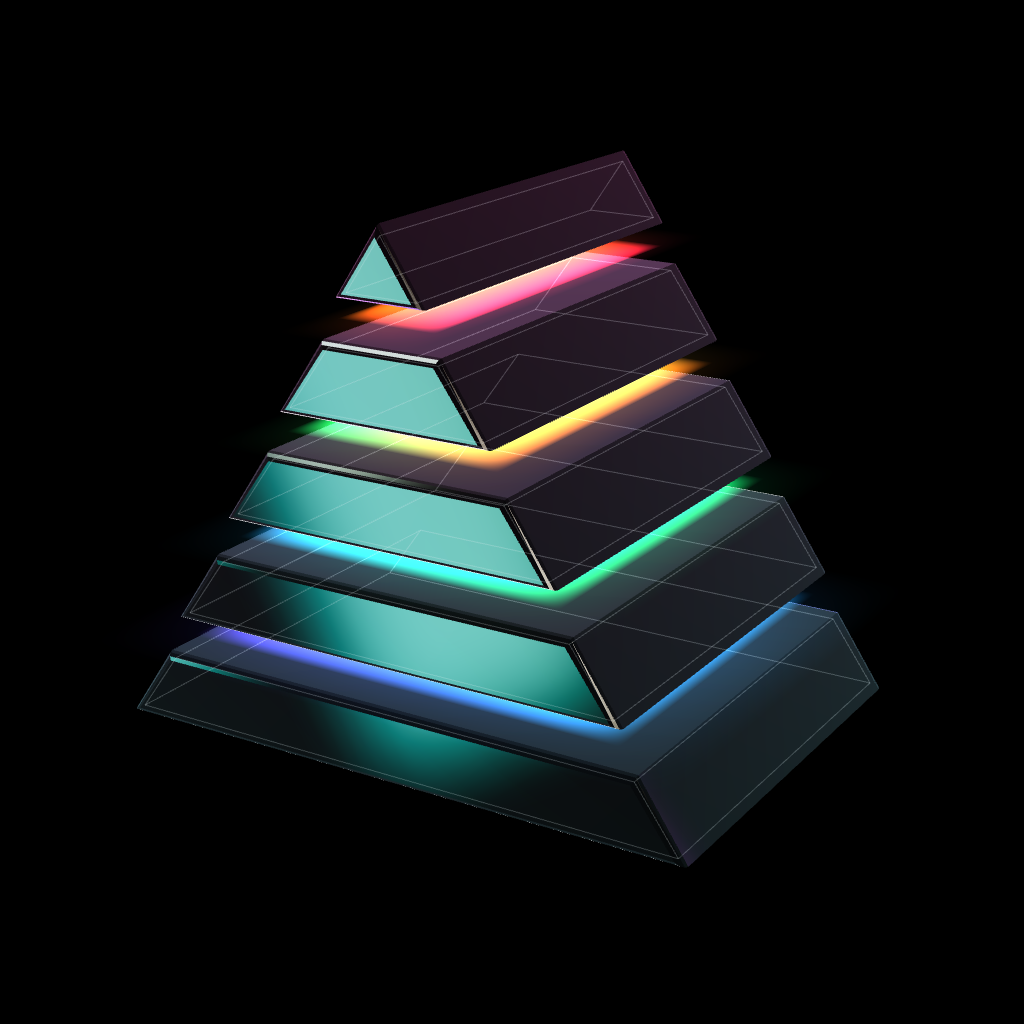
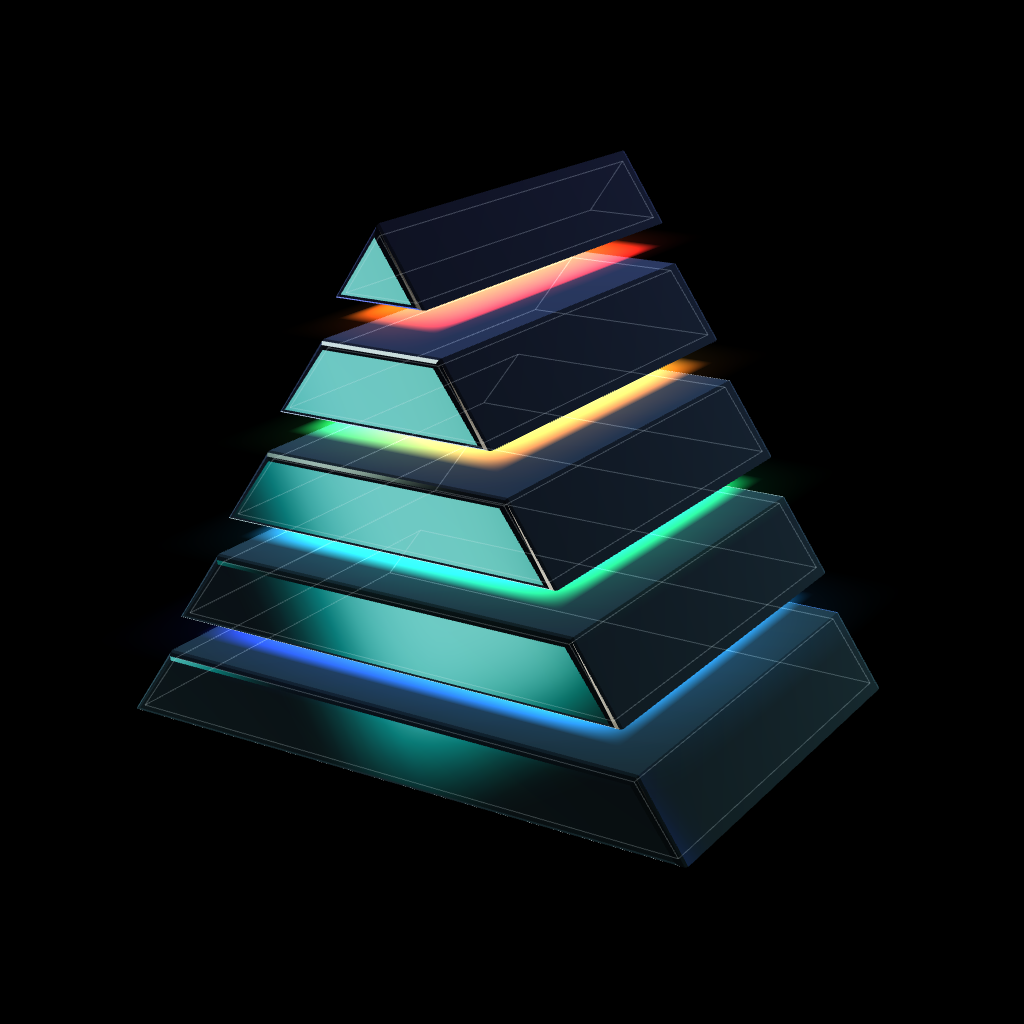
D Dark: indigo palette in place of purple and pink
Ice cyan, indigo and soft indigo-white for accents and gradient text;
indigo smoke; spectrum ends in indigo; logo re-rendered to match.

Claude-Session: https://claude.ai/code/session_01XkNtyxpTfPE5Ki13ucxey4

diff --git a/drafts/prism-d-dark.html b/drafts/prism-d-dark.html
@@ -8,9 +8,9 @@
 <style>
 :root{
   --bg:#05060a;--bg2:#080a10;--panel:#090c13;--ink:#eef1f7;--mut:#959cad;--dim:#636a7c;--line:rgba(255,255,255,.08);--line2:rgba(255,255,255,.16);
-  --acc:#7df9ff;--acc2:#9b7bff;--acc3:#ff7ad9;
-  --grad:linear-gradient(100deg,#7df9ff 0%,#9b7bff 55%,#ff7ad9 100%);
-  --r:#ff5c8a;--o:#ffb04a;--y:#e8e05a;--g:#4dffb0;--b:#5ad1ff;--v:#9b7bff;
+  --acc:#74e8ff;--acc2:#5b6cff;--acc3:#a5b4ff;
+  --grad:linear-gradient(100deg,#74e8ff 0%,#5b6cff 55%,#a5b4ff 100%);
+  --r:#ff5f5f;--o:#ffb04a;--y:#e8e05a;--g:#4dffb0;--b:#5ad1ff;--v:#5b6cff;
   --disp:"Geist",system-ui,-apple-system,"Segoe UI",sans-serif;
   --sans:"Geist",system-ui,-apple-system,"Segoe UI",sans-serif;
   --serif:"Instrument Serif",Georgia,"Times New Roman",serif;
@@ -48,11 +48,11 @@ a{color:inherit}
 /* ---------- smoky light behind the whole page; the same canvas draws the hero prism ---------- */
 #gl{position:fixed;inset:0;width:100%;height:100%;z-index:-1;pointer-events:none;display:block;opacity:0;transition:opacity 1.4s ease}
 #gl.on{opacity:1}
-.fluid-fb{position:fixed;inset:-20%;z-index:-1;pointer-events:none;filter:blur(40px);background:radial-gradient(35% 30% at 70% 35%,rgba(90,209,255,.2),transparent 70%),radial-gradient(30% 28% at 30% 70%,rgba(255,92,138,.14),transparent 70%),radial-gradient(28% 26% at 60% 80%,rgba(155,123,255,.2),transparent 70%),radial-gradient(25% 22% at 85% 65%,rgba(77,255,176,.1),transparent 70%);animation:fdrift 26s ease-in-out infinite alternate}
+.fluid-fb{position:fixed;inset:-20%;z-index:-1;pointer-events:none;filter:blur(40px);background:radial-gradient(35% 30% at 70% 35%,rgba(90,209,255,.2),transparent 70%),radial-gradient(30% 28% at 30% 70%,rgba(255,95,95,.14),transparent 70%),radial-gradient(28% 26% at 60% 80%,rgba(91,108,255,.2),transparent 70%),radial-gradient(25% 22% at 85% 65%,rgba(77,255,176,.1),transparent 70%);animation:fdrift 26s ease-in-out infinite alternate}
 @keyframes fdrift{0%{transform:translate(0,0) rotate(0) scale(1)}50%{transform:translate(-4%,3%) rotate(8deg) scale(1.08)}100%{transform:translate(3%,-3%) rotate(-6deg) scale(1)}}
 
 /* ---------- ambient light: faint top glow, grid revealed around the cursor ---------- */
-.bgfx{position:fixed;inset:0;z-index:-1;pointer-events:none;background:radial-gradient(80% 50% at 50% -12%,rgba(155,123,255,.11),transparent 62%)}
+.bgfx{position:fixed;inset:0;z-index:-1;pointer-events:none;background:radial-gradient(80% 50% at 50% -12%,rgba(91,108,255,.11),transparent 62%)}
 .bgfx::before{content:"";position:absolute;inset:0;background-image:linear-gradient(rgba(255,255,255,.07) 1px,transparent 1px),linear-gradient(90deg,rgba(255,255,255,.07) 1px,transparent 1px);background-size:72px 72px;background-position:center;-webkit-mask:radial-gradient(380px circle at var(--mx,50%) var(--my,28%),#000,transparent 72%);mask:radial-gradient(380px circle at var(--mx,50%) var(--my,28%),#000,transparent 72%)}
 .bgfx::after{content:"";position:absolute;inset:0;background:radial-gradient(640px circle at var(--mx,50%) var(--my,28%),rgba(125,249,255,.055),transparent 62%)}
 
@@ -63,7 +63,7 @@ a{color:inherit}
 .logo .mark3d{width:46px;height:46px;margin:-8px -4px -8px -12px}
 /* the 3D logo: rendered live; its brightness becomes alpha, so only the light shows on the bar */
 .mark3d{position:relative;display:inline-block;flex:none}
[2 lines of base64/hex data omitted]
 .mark3d.live::before{opacity:0}
 .mark3d canvas{position:absolute;inset:0;width:100%;height:100%;display:block;opacity:0;transition:opacity .6s ease}
 .mark3d canvas.on{opacity:1}
@@ -74,7 +74,7 @@ a{color:inherit}
 .pill nav a:hover{opacity:1;color:var(--acc)}
 .talk{display:flex;align-items:center;gap:10px;text-decoration:none;background:var(--ink);color:var(--bg);border-radius:999px;padding:5px 16px 5px 5px;font-size:14px;font-weight:500;white-space:nowrap;min-height:40px;transition:box-shadow .3s}
 .talk:hover{box-shadow:0 0 30px -4px rgba(125,249,255,.6)}
-.av{width:32px;height:32px;border-radius:50%;display:grid;place-items:center;font:400 15px/1 var(--serif);font-style:italic;background:linear-gradient(135deg,#7df9ff,#9b7bff 55%,#ff7ad9);color:#05060a;flex:none}
+.av{width:32px;height:32px;border-radius:50%;display:grid;place-items:center;font:400 15px/1 var(--serif);font-style:italic;background:linear-gradient(135deg,#74e8ff,#5b6cff 55%,#a5b4ff);color:#05060a;flex:none}
 @media (max-width:820px){.pill nav{display:none}.pill{gap:12px}}
 @media (max-width:380px){.talk .tl{display:none}.talk{padding-right:5px}}
 
@@ -137,7 +137,7 @@ html:not(.js) .strata canvas,.rm .strata canvas{display:none}
 html:not(.js) .h-text,.rm .h-text{position:relative;min-height:100svh}
 html:not(.js) .h-over,.rm .h-over{display:none}
 html:not(.js) .mani-band,.rm .mani-band{display:block}
-html:not(.js) .chip,.rm .chip{background:#05060a repeating-linear-gradient(180deg,transparent 0 14px,#7df9ff 14px 15px,transparent 15px 22px,#9b7bff 22px 23px)}
+html:not(.js) .chip,.rm .chip{background:#05060a repeating-linear-gradient(180deg,transparent 0 14px,#74e8ff 14px 15px,transparent 15px 22px,#5b6cff 22px 23px)}
 
 /* ---------- sections ---------- */
 .sec{padding:clamp(96px,12vw,180px) 0}
@@ -153,7 +153,7 @@ html:not(.js) .chip,.rm .chip{background:#05060a repeating-linear-gradient(180de
 .js [data-r].in{opacity:1;transform:none}
 
 /* animated light running round a card's edge */
-.glowb{border:1px solid transparent!important;background:var(--pb,linear-gradient(var(--panel),var(--panel))) padding-box,conic-gradient(from var(--a),rgba(255,255,255,.1) 0deg,rgba(255,255,255,.1) 240deg,#7df9ff 285deg,#9b7bff 315deg,#ff7ad9 338deg,rgba(255,255,255,.1) 360deg) border-box;animation:spin 8s linear infinite}
+.glowb{border:1px solid transparent!important;background:var(--pb,linear-gradient(var(--panel),var(--panel))) padding-box,conic-gradient(from var(--a),rgba(255,255,255,.1) 0deg,rgba(255,255,255,.1) 240deg,#74e8ff 285deg,#5b6cff 315deg,#a5b4ff 338deg,rgba(255,255,255,.1) 360deg) border-box;animation:spin 8s linear infinite}
 @keyframes spin{to{--a:360deg}}
 
 /* ---------- 01 start here: a working first read ---------- */
@@ -248,7 +248,7 @@ html:not(.js) .chip,.rm .chip{background:#05060a repeating-linear-gradient(180de
 .rq{border-top:1px solid var(--line)}
 .rq-row{display:grid;grid-template-columns:minmax(0,1fr) 60px minmax(0,1.15fr);gap:20px;align-items:center;padding:clamp(28px,3.4vw,48px) 0;border-bottom:1px solid var(--line)}
 .rq-heard{position:relative;font:300 clamp(22px,2.2vw,34px)/1.2 var(--disp);letter-spacing:-.03em;color:var(--dim);justify-self:start}
-.rq-heard svg{position:absolute;left:-2%;top:30%;width:104%;height:50%;overflow:visible;filter:drop-shadow(0 0 5px rgba(255,92,138,.8))}
+.rq-heard svg{position:absolute;left:-2%;top:30%;width:104%;height:50%;overflow:visible;filter:drop-shadow(0 0 5px rgba(255,95,95,.8))}
 .rq-heard path{fill:none;stroke:var(--r);stroke-width:2.2;stroke-linecap:round;stroke-dasharray:1;stroke-dashoffset:1;transition:stroke-dashoffset .9s var(--ease) .3s}
 .rq-row.in .rq-heard path{stroke-dashoffset:0}
 .rq-ar{font:300 30px/1 var(--disp);color:var(--dim);text-align:center}
@@ -260,8 +260,8 @@ html:not(.js) .chip,.rm .chip{background:#05060a repeating-linear-gradient(180de
 @media (max-width:800px){.rq-row,.rq-labels{grid-template-columns:1fr}.rq-ar{text-align:left;transform:rotate(90deg);width:30px}.rq-labels span:nth-child(2){display:none}.rq-ask .note{position:static;display:block;margin-bottom:10px}}
 
 /* ---------- 05 how we use AI ---------- */
-.ai{background:radial-gradient(60% 55% at 50% 0%,rgba(155,123,255,.2),transparent 70%),radial-gradient(40% 40% at 90% 15%,rgba(125,249,255,.1),transparent 70%),rgba(7,8,13,.6);color:var(--ink);position:relative;overflow:hidden;border-top:1px solid var(--line);border-bottom:1px solid var(--line)}
-.ai::before{content:"";position:absolute;left:0;right:0;top:0;height:2px;background:linear-gradient(90deg,var(--r),var(--o),var(--y),var(--g),var(--b),var(--v));box-shadow:0 0 30px 2px rgba(155,123,255,.6)}
+.ai{background:radial-gradient(60% 55% at 50% 0%,rgba(91,108,255,.2),transparent 70%),radial-gradient(40% 40% at 90% 15%,rgba(125,249,255,.1),transparent 70%),rgba(7,8,13,.6);color:var(--ink);position:relative;overflow:hidden;border-top:1px solid var(--line);border-bottom:1px solid var(--line)}
+.ai::before{content:"";position:absolute;left:0;right:0;top:0;height:2px;background:linear-gradient(90deg,var(--r),var(--o),var(--y),var(--g),var(--b),var(--v));box-shadow:0 0 30px 2px rgba(91,108,255,.6)}
 .ai::after{content:"";position:absolute;inset:2px 0 auto;height:320px;background:repeating-linear-gradient(180deg,rgba(255,255,255,.035) 0 1px,transparent 1px 26px);pointer-events:none;-webkit-mask:linear-gradient(#000,transparent);mask:linear-gradient(#000,transparent)}
 .ai .w{position:relative;z-index:1}
 .pr{display:grid;grid-template-columns:repeat(2,minmax(0,1fr));border-top:1px solid var(--line)}
@@ -279,7 +279,7 @@ html:not(.js) .chip,.rm .chip{background:#05060a repeating-linear-gradient(180de
 .portrait span{font:400 clamp(100px,12vw,190px)/1 var(--serif);font-style:italic;letter-spacing:-.02em;padding-right:.08em}
 .portrait::before{content:"";position:absolute;left:0;right:0;top:-30%;height:30%;background:linear-gradient(transparent,rgba(125,249,255,.09),transparent);animation:scan 5.5s linear infinite;pointer-events:none}
 @keyframes scan{to{transform:translateY(433%)}}
-.portrait::after{content:"";position:absolute;left:0;right:0;bottom:0;height:3px;background:linear-gradient(90deg,var(--r),var(--o),var(--y),var(--g),var(--b),var(--v));box-shadow:0 0 24px 2px rgba(155,123,255,.7)}
+.portrait::after{content:"";position:absolute;left:0;right:0;bottom:0;height:3px;background:linear-gradient(90deg,var(--r),var(--o),var(--y),var(--g),var(--b),var(--v));box-shadow:0 0 24px 2px rgba(91,108,255,.7)}
 .fd blockquote{margin:0 0 30px;font:400 clamp(28px,3.2vw,52px)/1.14 var(--disp);letter-spacing:-.04em;text-indent:-.4em}
 .fd .bio p{color:var(--mut);margin:0 0 1em;max-width:36em}
 .nums{display:grid;grid-template-columns:repeat(3,minmax(0,1fr));border-top:1px solid var(--line2);margin-top:34px}
@@ -322,7 +322,7 @@ form .btn{justify-self:start;margin-top:18px}
 
 /* ---------- footer: the wordmark lights up under the cursor ---------- */
 footer{padding:0 0 calc(30px + env(safe-area-inset-bottom,0px));overflow:hidden}
-.ghostmark{font:600 clamp(58px,14vw,250px)/.9 var(--disp);letter-spacing:-.065em;color:transparent;-webkit-text-fill-color:transparent;-webkit-text-stroke:1px rgba(255,255,255,.14);background:radial-gradient(360px circle at var(--gx,50%) var(--gy,50%),rgba(125,249,255,.6),rgba(155,123,255,.28) 42%,transparent 72%);-webkit-background-clip:text;background-clip:text;white-space:nowrap;text-align:center;margin:20px 0 34px;padding:0 .04em .06em;user-select:none}
+.ghostmark{font:600 clamp(58px,14vw,250px)/.9 var(--disp);letter-spacing:-.065em;color:transparent;-webkit-text-fill-color:transparent;-webkit-text-stroke:1px rgba(255,255,255,.14);background:radial-gradient(360px circle at var(--gx,50%) var(--gy,50%),rgba(125,249,255,.6),rgba(91,108,255,.28) 42%,transparent 72%);-webkit-background-clip:text;background-clip:text;white-space:nowrap;text-align:center;margin:20px 0 34px;padding:0 .04em .06em;user-select:none}
 @media (pointer:coarse){.ghostmark{animation:sweep 7s ease-in-out infinite alternate}}
 @keyframes sweep{from{--gx:5%}to{--gx:95%}}
 .f-row{display:flex;flex-wrap:wrap;align-items:center;justify-content:space-between;gap:16px 30px;border-top:1px solid var(--line);padding-top:22px;font-size:14px;color:var(--mut)}
@@ -584,7 +584,7 @@ footer{padding:0 0 calc(30px + env(safe-area-inset-bottom,0px));overflow:hidden}
     'float h(vec2 p){return fract(sin(dot(p,vec2(127.1,311.7)))*43758.5453);}',
     'float n(vec2 p){vec2 i=floor(p),f=fract(p);f=f*f*(3.-2.*f);return mix(mix(h(i),h(i+vec2(1,0)),f.x),mix(h(i+vec2(0,1)),h(i+vec2(1,1)),f.x),f.y);}',
     'float fb(vec2 p){float v=0.,a=.5;for(int i=0;i<4;i++){v+=a*n(p);p=p*2.03+vec2(1.7,9.2);a*=.5;}return v;}',
-    'vec3 spec(float t){t=fract(t);vec3 c0=vec3(1.,.36,.54),c1=vec3(1.,.66,.29),c2=vec3(.3,1.,.69),c3=vec3(.35,.85,1.),c4=vec3(.61,.48,1.);',
+    'vec3 spec(float t){t=fract(t);vec3 c0=vec3(1.,.37,.37),c1=vec3(1.,.66,.29),c2=vec3(.3,1.,.69),c3=vec3(.35,.85,1.),c4=vec3(.36,.42,1.);',
     ' float k=t*5.;if(k<1.)return mix(c0,c1,k);if(k<2.)return mix(c1,c2,k-1.);if(k<3.)return mix(c2,c3,k-2.);if(k<4.)return mix(c3,c4,k-3.);return mix(c4,c0,k-4.);}',
     'void main(){vec2 uv=gl_FragCoord.xy/R;float asp=R.x/R.y;vec2 p=vec2(uv.x*asp,uv.y);vec2 m=vec2(M.x*asp,M.y);float t=T*.05;',
     ' float md=length(p-m);',
@@ -689,18 +689,18 @@ function spStudio(THREE){
   const s=new THREE.Scene();
   s.add(new THREE.Mesh(new THREE.BoxGeometry(30,30,30),new THREE.MeshBasicMaterial({color:0x07080d,side:THREE.BackSide})));
   const strip=(w,h,col,k,x,y,z)=>{const m=new THREE.Mesh(new THREE.PlaneGeometry(w,h),new THREE.MeshBasicMaterial({color:new THREE.Color(col).multiplyScalar(k),side:THREE.DoubleSide}));m.position.set(x,y,z);m.lookAt(0,0,0);s.add(m)};
-  strip(16,1.6,0xffffff,6,0,9,2);strip(1.3,13,0x7df9ff,4.5,-10,0,3);strip(1.3,13,0xff7ad9,4,10,1,-2);
-  strip(7,7,0x9b7bff,2.4,0,-1,-12);strip(9,1.1,0xffffff,3.2,-4,-8,7);strip(1,6,0xffffff,5,6,5,8);
+  strip(16,1.6,0xffffff,6,0,9,2);strip(1.3,13,0x7df9ff,4.5,-10,0,3);strip(1.3,13,0x7c8cff,4,10,1,-2);
+  strip(7,7,0x5b6cff,2.4,0,-1,-12);strip(9,1.1,0xffffff,3.2,-4,-8,7);strip(1,6,0xffffff,5,6,5,8);
   return s;
 }
 function spMark3D(THREE,o){
   o=o||{};
   const g=new THREE.Group(),S=2,TH=S*Math.sqrt(3)/2,DEP=1.45,N=5,GAP=.12,yb=-TH/3,BV=.025;
-  const hues=[0x9b7bff,0x5ad1ff,0x4dffb0,0xffb04a,0xff5c8a];
+  const hues=[0x5b6cff,0x5ad1ff,0x4dffb0,0xffb04a,0xff5f5f];
   const sliceH=(TH-GAP*(N-1))/N,wAt=y=>S*(1-(y-yb)/TH)/2;
   const rimMat=new THREE.ShaderMaterial({transparent:true,depthWrite:false,blending:THREE.AdditiveBlending,uniforms:{K:{value:1}},
     vertexShader:'varying vec3 vN,vV,vP;void main(){vec4 mv=modelViewMatrix*vec4(position,1.);vN=normalize(normalMatrix*normal);vV=normalize(-mv.xyz);vP=position;gl_Position=projectionMatrix*mv;}',
-    fragmentShader:'uniform float K;varying vec3 vN,vV,vP;void main(){float f=pow(1.-abs(dot(normalize(vN),normalize(vV))),2.);vec3 c=mix(vec3(.49,.98,1.),vec3(1.,.48,.85),clamp(vP.y*.45+.45,0.,1.));gl_FragColor=vec4(c*(.04+f*.55)*K,1.);}'});
+    fragmentShader:'uniform float K;varying vec3 vN,vV,vP;void main(){float f=pow(1.-abs(dot(normalize(vN),normalize(vV))),2.);vec3 c=mix(vec3(.49,.98,1.),vec3(.42,.5,1.),clamp(vP.y*.45+.45,0.,1.));gl_FragColor=vec4(c*(.04+f*.55)*K,1.);}'});
   const seamMat=(a,b,k,soft)=>new THREE.ShaderMaterial({transparent:true,depthWrite:false,side:THREE.DoubleSide,blending:THREE.AdditiveBlending,
     uniforms:{A:{value:new THREE.Color(a)},B:{value:new THREE.Color(b)},K:{value:k},P:{value:soft}},
     vertexShader:'varying vec2 vUv;void main(){vUv=uv;gl_Position=projectionMatrix*modelViewMatrix*vec4(position,1.);}',
@@ -728,7 +728,7 @@ function spMark3D(THREE,o){
     }
   }
   const l1=new THREE.PointLight(0x7df9ff,30,0,2);l1.position.set(-3,2.5,4);
-  const l2=new THREE.PointLight(0xff7ad9,24,0,2);l2.position.set(3.5,-1.5,3);
+  const l2=new THREE.PointLight(0x7c8cff,24,0,2);l2.position.set(3.5,-1.5,3);
   g.userData={glass,seams,rimMat,lineMat,lights:[l1,l2]};
   return g;
 }
@@ -789,7 +789,7 @@ const FLUID=`precision highp float;varying vec2 vUv;uniform float T,S,I,A;unifor
 float h(vec2 p){return fract(sin(dot(p,vec2(127.1,311.7)))*43758.5453);}
 float n(vec2 p){vec2 i=floor(p),f=fract(p);f=f*f*(3.-2.*f);return mix(mix(h(i),h(i+vec2(1,0)),f.x),mix(h(i+vec2(0,1)),h(i+vec2(1,1)),f.x),f.y);}
 float fb(vec2 p){float v=0.,a=.5;mat2 m=mat2(1.6,1.2,-1.2,1.6);for(int i=0;i<4;i++){v+=a*n(p);p=m*p;a*=.5;}return v;}
-vec3 spec(float t){t=fract(t);vec3 c0=vec3(.36,.92,1.),c1=vec3(.32,.55,1.),c2=vec3(.61,.46,1.),c3=vec3(.98,.42,.86),c4=vec3(.3,1.,.8);
+vec3 spec(float t){t=fract(t);vec3 c0=vec3(.36,.92,1.),c1=vec3(.32,.55,1.),c2=vec3(.36,.42,1.),c3=vec3(.56,.64,1.),c4=vec3(.3,1.,.8);
 float k=t*5.;if(k<1.)return mix(c0,c1,k);if(k<2.)return mix(c1,c2,k-1.);if(k<3.)return mix(c2,c3,k-2.);if(k<4.)return mix(c3,c4,k-3.);return mix(c4,c0,k-4.);}
 void main(){vec2 p=(vUv-.5)*vec2(A,1.)*2.1;float t=T*.045;p+=(M-.5)*.3;
 vec2 q=vec2(fb(p+vec2(0.,t)),fb(p+vec2(5.2,1.3)-t*.7));
@@ -825,12 +825,12 @@ prism.add(new THREE.LineSegments(eg,edgeMat));
 /* fresnel rim: faces turned away from you glow cyan to pink, which gives the glass its volume */
 const rimMat=new THREE.ShaderMaterial({transparent:true,depthWrite:false,blending:THREE.AdditiveBlending,uniforms:{K:{value:1}},
   vertexShader:'varying vec3 vN,vV,vP;void main(){vec4 mv=modelViewMatrix*vec4(position,1.);vN=normalize(normalMatrix*normal);vV=normalize(-mv.xyz);vP=position;gl_Position=projectionMatrix*mv;}',
-  fragmentShader:'uniform float K;varying vec3 vN,vV,vP;void main(){float f=pow(1.-abs(dot(normalize(vN),normalize(vV))),2.);vec3 c=mix(vec3(.49,.98,1.),vec3(1.,.48,.85),clamp(vP.y*.35+.5,0.,1.));gl_FragColor=vec4(c*(.05+f*.6)*K,1.);}'});
+  fragmentShader:'uniform float K;varying vec3 vN,vV,vP;void main(){float f=pow(1.-abs(dot(normalize(vN),normalize(vV))),2.);vec3 c=mix(vec3(.49,.98,1.),vec3(.42,.5,1.),clamp(vP.y*.35+.5,0.,1.));gl_FragColor=vec4(c*(.05+f*.6)*K,1.);}'});
 prism.add(new THREE.Mesh(geo,rimMat));
 const rig=new THREE.Group();rig.add(prism);scene.add(rig);
 /* coloured rim lights travel with the prism */
 const l1=new THREE.PointLight(0x7df9ff,45,0,2);l1.position.set(-4,3,5);
-const l2=new THREE.PointLight(0xff7ad9,35,0,2);l2.position.set(5,-2.5,4);
+const l2=new THREE.PointLight(0x7c8cff,35,0,2);l2.position.set(5,-2.5,4);
 rig.add(l1,l2);
 
 /* ---------- light: one white beam in, six coloured rays out ---------- */
@@ -848,7 +848,7 @@ const light=new THREE.Group();rig.add(light);
 const beam=beamMesh(0xffffff,11,.04,.55);beam.position.set(-S/4,0,0);beam.userData.core.uniforms.F.value=.7;beam.userData.halo.uniforms.F.value=.6;light.add(beam);
 /* the beam's path inside the glass */
 const inner=beamMesh(0xffffff,S/2,.05,.42);inner.position.set(-S/4,0,0);inner.userData.core.uniforms.F.value=3;inner.userData.halo.uniforms.F.value=3;light.add(inner);
-const COLS=[0xff5c8a,0xffb04a,0xf4f06a,0x4dffb0,0x5ad1ff,0x9b7bff];
+const COLS=[0xff5f5f,0xffb04a,0xf4f06a,0x4dffb0,0x5ad1ff,0x5b6cff];
 const rays=COLS.map(c=>{const r=beamMesh(c,18,.07,.9);r.position.set(S/4,-.02,0);light.add(r);return r});
 
 /* ---------- dust in the light ---------- */
